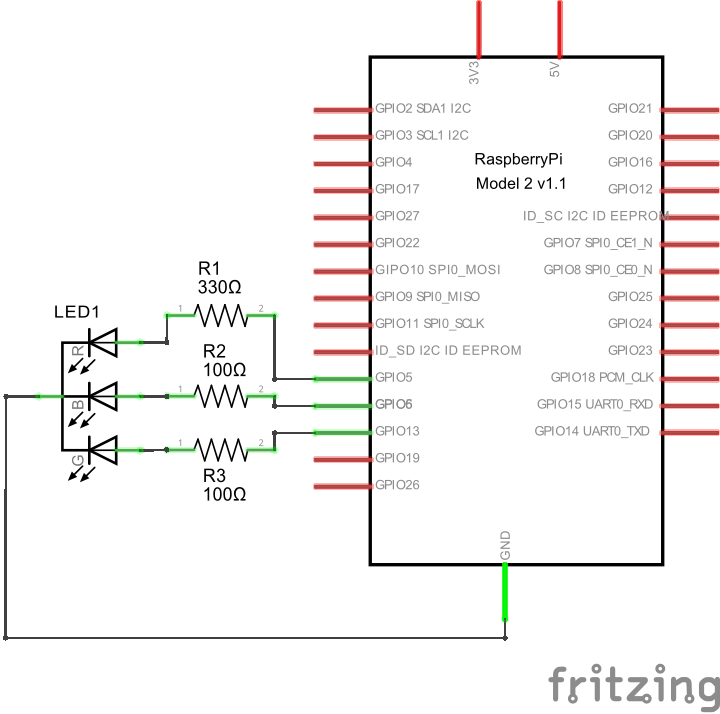
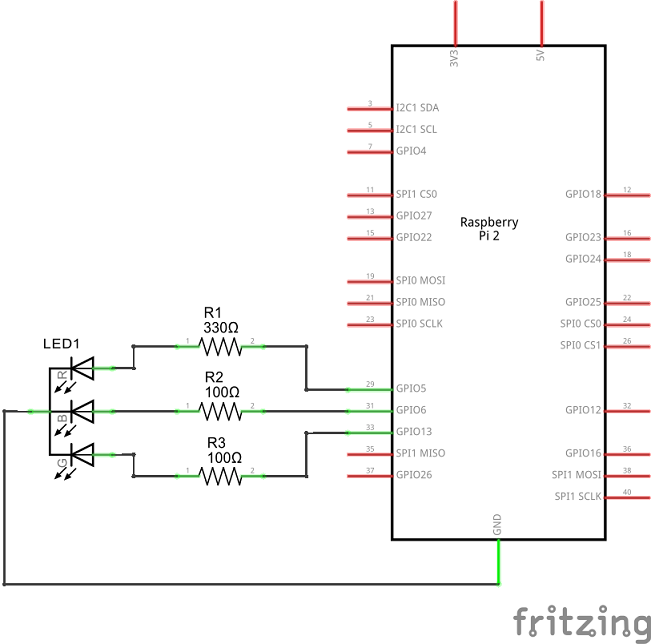
Fixes for bug 2828665. Changed the reference of 'anode' to 'cathode'. Updated diagram and added Tri-color LED pinout image

Changed region(s): [[0.0, 0.0, 1.0, 0.9317], [0.768, 0.9317, 1.0, 1.0]]

diff --git a/en-US/win10/samples/RGBLED.md b/en-US/win10/samples/RGBLED.md
@@ -35,19 +35,33 @@ Let's start by wiring up the components on the breadboard as shown in the diagra
 
 <sub>*Image made with [Fritzing](http://fritzing.org/)*</sub>
 
-Here are the schematics:
+Here is the schematic:
 
 ![Circuit Schematic]({{site.baseurl}}/images/RGBLED/RGBLED-schematic_schem.png)
 
-####Connecting the LED
+<sub>*Image made with [Fritzing](http://fritzing.org/)*</sub>
 
-* Connect the three legs of the LED to Pins 29,31,33 (GPIO 5,6,13) of the Raspberry Pi 2 respectively
+The pinout of the Tri-color LED is shown below and can be found in the [datasheet](http://www.kingbrightusa.com/images/catalog/SPEC/WP154A4SUREQBFZGC.pdf){:target="_blank"}.
 
-* Note that Red leg should be connected through a 330 &#x2126; resistor to Pin 29 of Raspberry Pi 2
+![Tri-color LED Pinout]({{site.baseurl}}/images/RGBLED/RGBLED_Pinout.png)
 
-* The Blue and Green legs should be connected through a 100 &#x2126; resistor each to pins 31 and 33 of the Raspberry Pi 2
+####Connecting the Tri-color LED
 
-* Connect the anode (the longer leg) of the LED to Pin 6 (GND)
+* Insert the Tri-color LED into the breadboard as shown in the breadboard diagram at the top of the page.
+
+* Connect one end of the 330 &#x2126; resistor to the red lead of the Tri-color LED.
+
+* Connect the other end of the 330 &#x2126; resistor to Pin 29 GPIO5 of the Raspberry Pi 2.
+
+* Connect one end of a 100 &#x2126; resistor to the blue lead of the Tri-color LED.
+
+* Connect the other end of the 100 &#x2126; resistor to Pin 31 GPIO6 of the Raspberry Pi 2.
+
+* Connect one end of a 100 &#x2126; resistor to the green lead of the Tri-color LED.
+
+* Connect the other end of the 100 &#x2126; resistor to Pin 33 GPIO13 of the Raspberry Pi 2.
+
+* Connect the cathode (the longest leg) of the Tri-color LED to Pin 6 GND.
 
 Here is the pinout of the RPi2:
 
